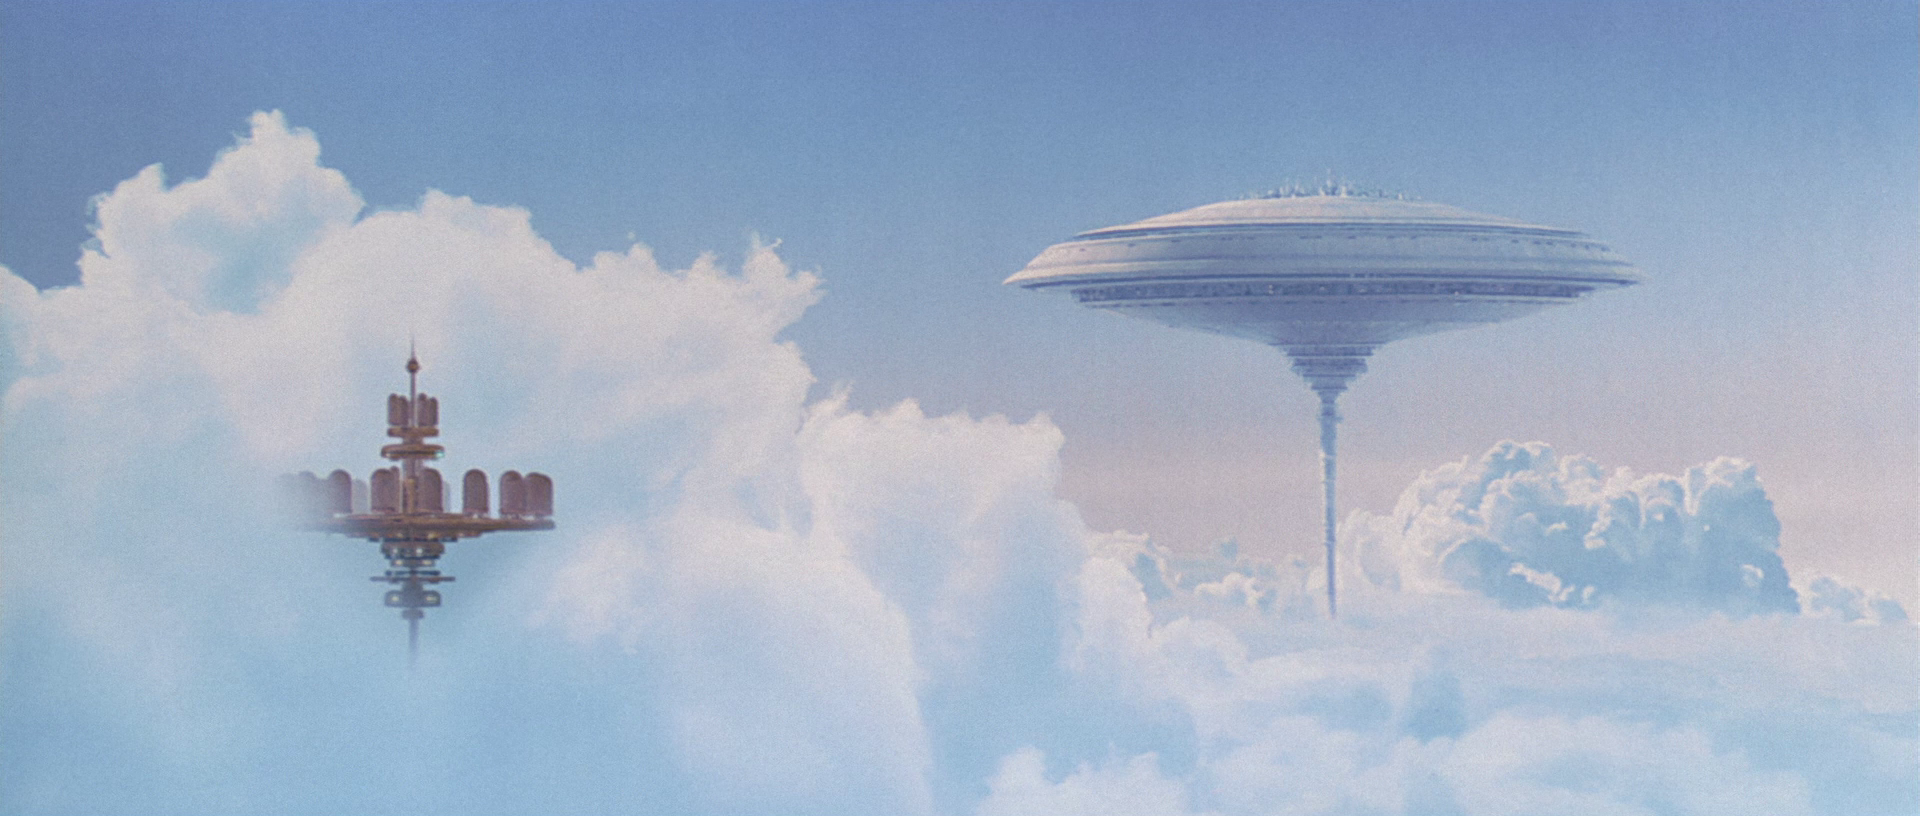
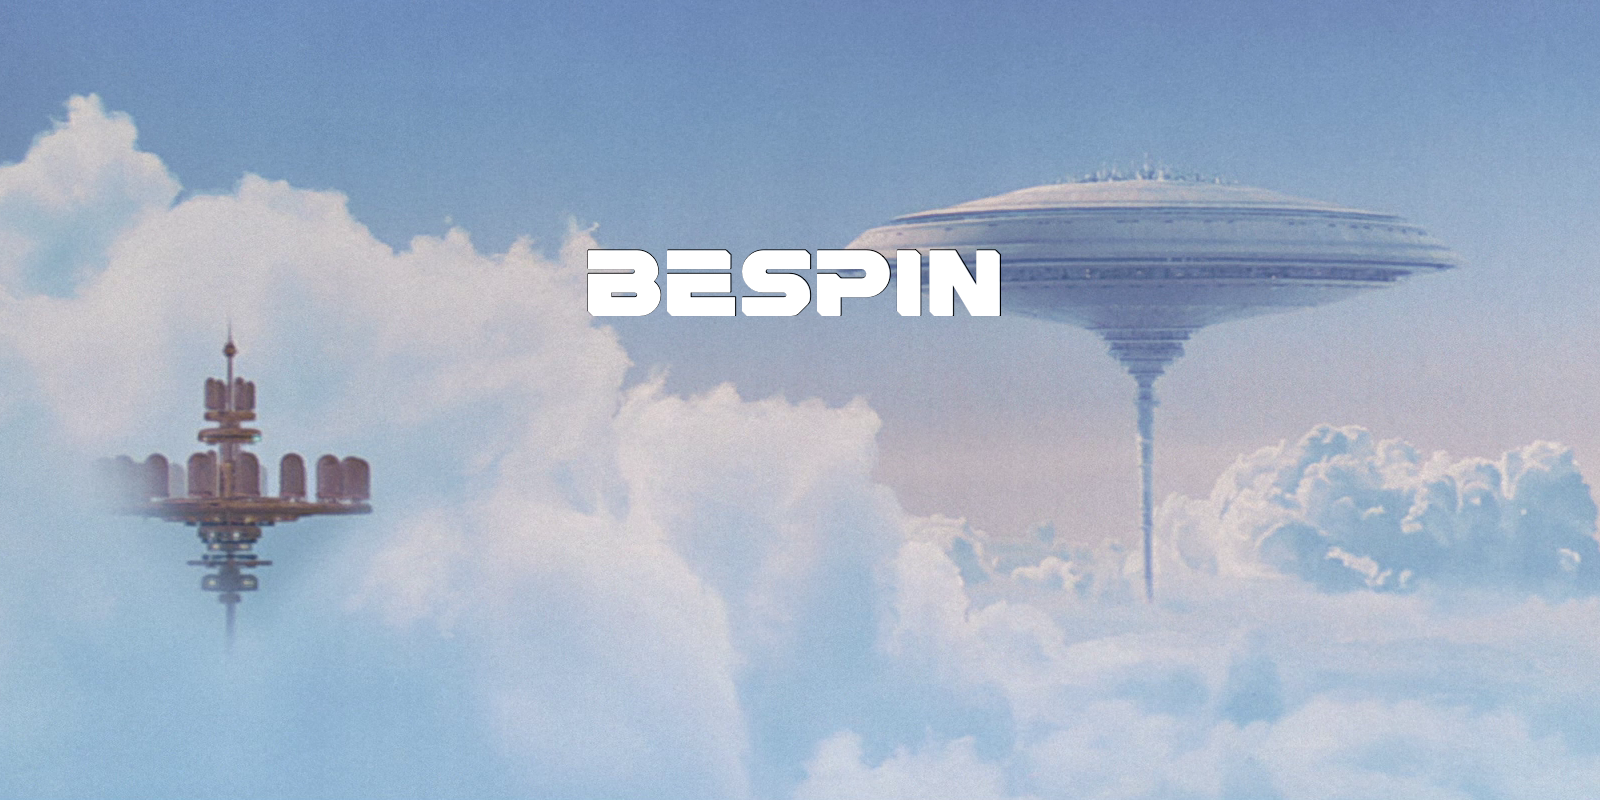
Starting point for class

diff --git a/index.html b/index.html
@@ -13,7 +13,6 @@
     <link rel="stylesheet" href="css/bootstrap.min.css">
     <style>
         body {
-            padding-top: 50px;
             padding-bottom: 20px;
         }
     </style>
@@ -45,10 +44,64 @@
 
     <!-- Main jumbotron for a primary marketing message or call to action -->
     <div class="jumbotron">
-      <div class="container">
-        <h1>Hello, world!</h1>
-        <p>This is a template for a simple marketing or informational website. It includes a large callout called a jumbotron and three supporting pieces of content. Use it as a starting point to create something more unique.</p>
-        <p><a class="btn btn-primary btn-lg" href="#" role="button">Learn more &raquo;</a></p>
+      <div id="carousel-example-generic" class="carousel slide" data-ride="carousel">
+        <!-- Indicators -->
+        <ol class="carousel-indicators">
+          <li data-target="#carousel-example-generic" data-slide-to="0" class="active"></li>
+          <li data-target="#carousel-example-generic" data-slide-to="1"></li>
+          <li data-target="#carousel-example-generic" data-slide-to="2"></li>
+          <li data-target="#carousel-example-generic" data-slide-to="3"></li>
+          <li data-target="#carousel-example-generic" data-slide-to="4"></li>
+        </ol>
+
+        <!-- Wrapper for slides -->
+        <div class="carousel-inner" role="listbox">
+          <div class="item active">
+            <img src="img/coruscant-1.jpg" alt="img/coruscant-1.jpg">
+            <div class="carousel-caption">
+              <h2>Capital of the Galaxy</h2>
+              <p><a href="#" class="btn btn-primary btn-lg">Secondary CTA</a>&nbsp;<a class="btn btn-success btn-lg" href="#" role="button">Learn more &raquo;</a></p>
+            </div>
+          </div>
+          <div class="item">
+            <img src="img/endor-1.jpg" alt="img/coruscant-1.jpg">
+            <div class="carousel-caption">
+              <h2>Birthplace of the New Republic</h2>
+              <p><a href="#" class="btn btn-primary btn-lg">Secondary CTA</a>&nbsp;<a class="btn btn-success btn-lg" href="#" role="button">Learn more &raquo;</a></p>
+            </div>
+          </div>
+          <div class="item">
+            <img src="img/bespin-1.png" alt="img/coruscant-1.jpg">
+            <div class="carousel-caption">
+              <h2>Luxury in the clouds</h2>
+              <p><a href="#" class="btn btn-primary btn-lg">Secondary CTA</a>&nbsp;<a class="btn btn-success btn-lg" href="#" role="button">Learn more &raquo;</a></p>
+            </div>
+          </div>
+          <div class="item">
+            <img src="img/naboo-1.jpg" alt="img/coruscant-1.jpg">
+            <div class="carousel-caption">
+              <h2>Jewel of the former Empire</h2>
+              <p><a href="#" class="btn btn-primary btn-lg">Secondary CTA</a>&nbsp;<a class="btn btn-success btn-lg" href="#" role="button">Learn more &raquo;</a></p>
+            </div>
+          </div>
+          <div class="item">
+            <img src="img/corellia-1.jpg" alt="img/coruscant-1.jpg">
+            <div class="carousel-caption">
+              <h2>Homeworld of Heroes</h2>
+              <p><a href="#" class="btn btn-primary btn-lg">Secondary CTA</a>&nbsp;<a class="btn btn-success btn-lg" href="#" role="button">Learn more &raquo;</a></p>
+            </div>
+          </div>
+        </div>
+
+        <!-- Controls -->
+        <a class="left carousel-control" href="#carousel-example-generic" role="button" data-slide="prev">
+          <span class="glyphicon glyphicon-chevron-left" aria-hidden="true"></span>
+          <span class="sr-only">Previous</span>
+        </a>
+        <a class="right carousel-control" href="#carousel-example-generic" role="button" data-slide="next">
+          <span class="glyphicon glyphicon-chevron-right" aria-hidden="true"></span>
+          <span class="sr-only">Next</span>
+        </a>
       </div>
     </div>
 
@@ -75,7 +128,7 @@
       <hr>
 
       <footer>
-        <p>&copy; Company 2015</p>
+        <p>&copy; Kessel Runners GFFA Tours 2015</p>
       </footer>
     </div> <!-- /container -->
     <script src="//ajax.googleapis.com/ajax/libs/jquery/1.11.2/jquery.min.js"></script>
@@ -84,6 +137,12 @@
     <script src="js/vendor/bootstrap.min.js"></script>
 
     <script src="js/main.js"></script>
+
+    <script>
+      $('.carousel').carousel({
+        interval: 10000
+      })
+    </script>
 
     <!-- Google Analytics: change UA-XXXXX-X to be your site's ID. -->
     <script>
